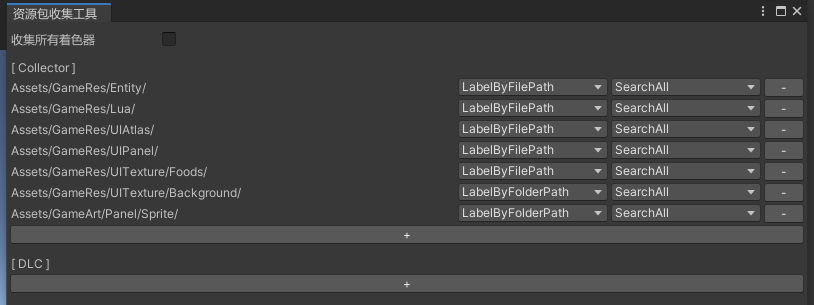
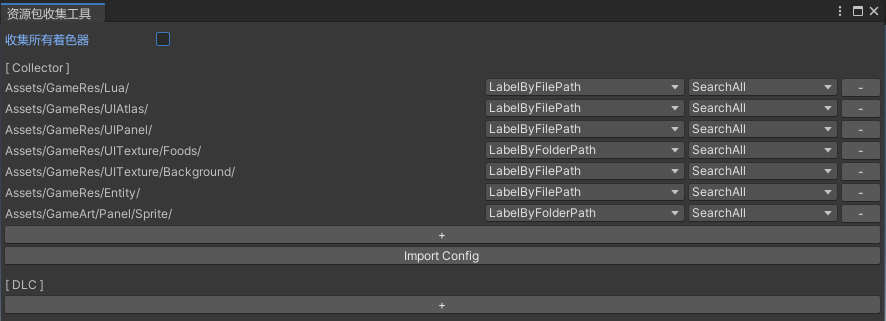
Update document

Changed region(s): [[0.0, 0.0, 1.0, 1.0], [0.9214, 0.0, 1.0, 0.059], [0.1843, 0.0885, 0.215, 0.118]]

diff --git a/Docs/Editor.AssetBundleCollector.md b/Docs/Editor.AssetBundleCollector.md
@@ -9,6 +9,10 @@
 
 注意：LabelByFolder会将文件夹内所有资源打在一个AssetBundle文件里。
 
+**导入配置表**   
+点击Import Config按钮可以导入外部的XML配置表，配置表规范如下图：
+![image](https://github.com/gmhevinci/MotionFramework/raw/master/Docs/Image/AssetBundleCollector2.png)
+
 **自定义打包规则**   
 如果内置的打包规则已经不能满足需求，那么我们可以轻松实现自定义打包规则
 ```C#
